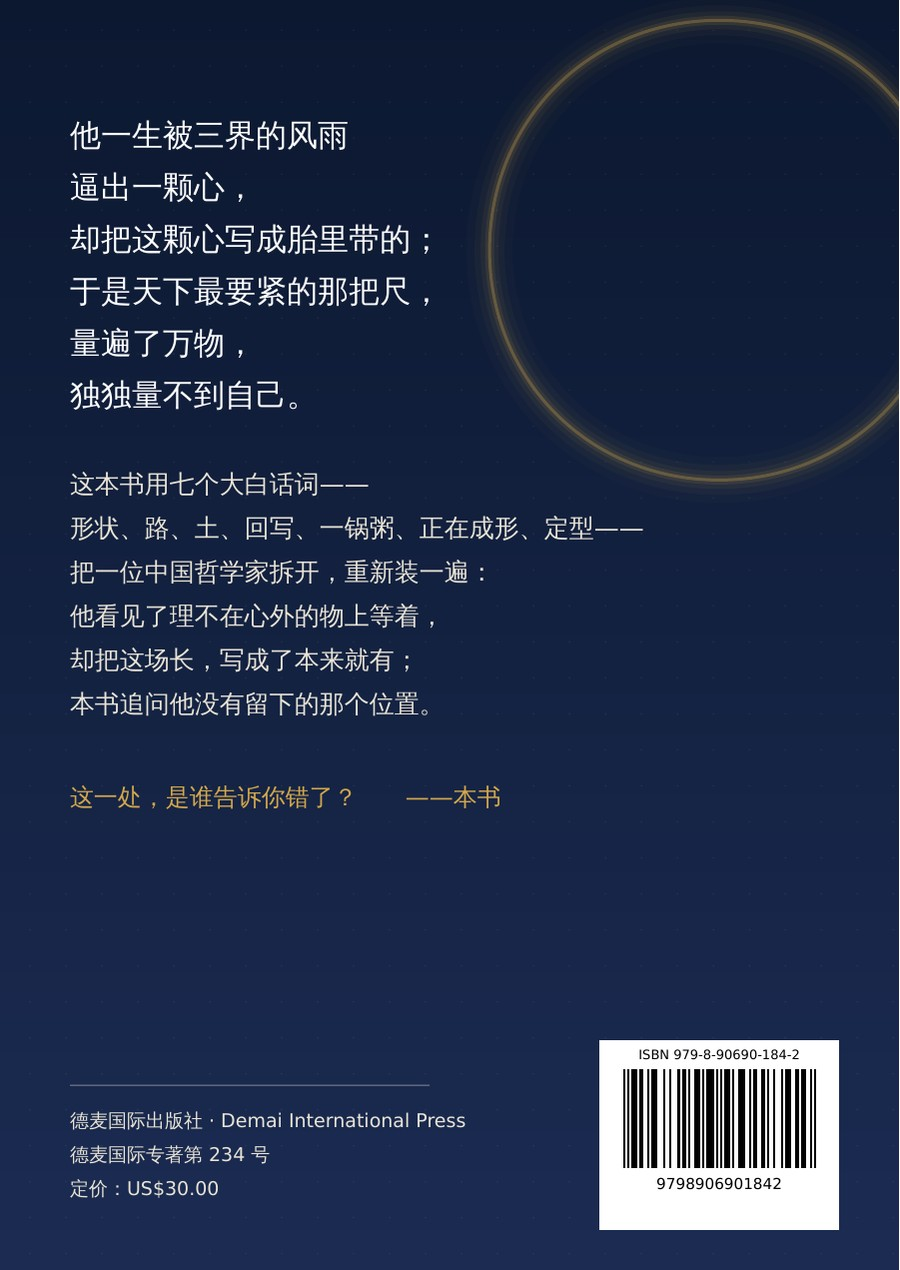
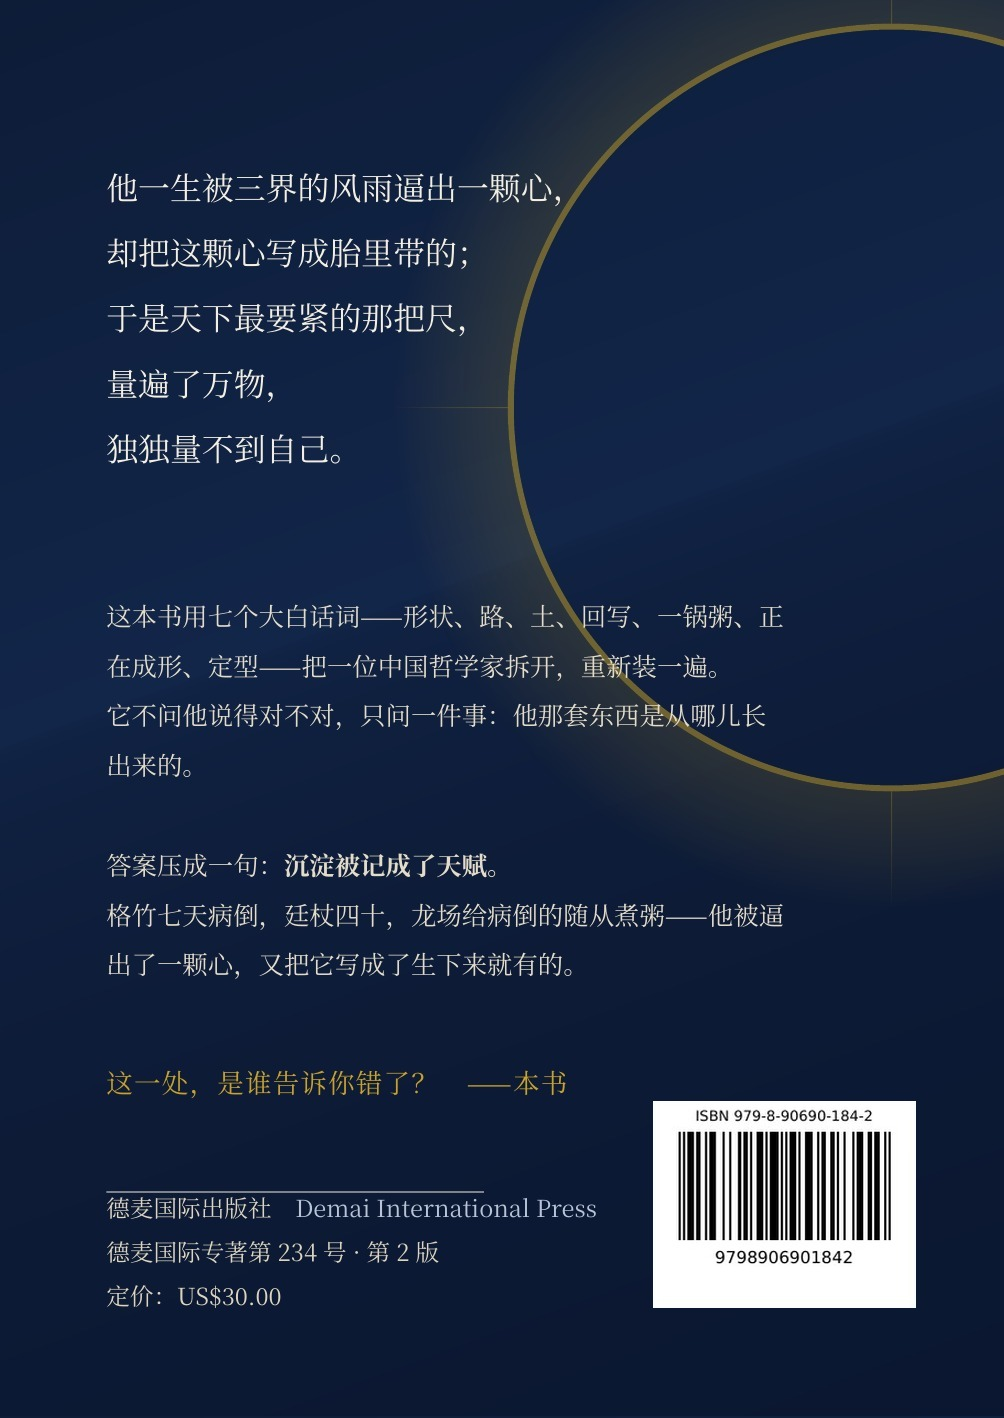
Replace no.234 cover and backcover with 2nd-edition artwork: dusted-gem motif, corrected subtitle, motif line updated

diff --git a/public/books/m/234/index.html b/public/books/m/234/index.html
@@ -57,7 +57,7 @@ footer a{color:#D4B25E}
 <header class="hero">
   <i class="st" style="left:4.9%;top:85.2%;width:1.9px;height:1.7px;--o:0.88;--d:3.0s;--dl:1.1s"></i><i class="st" style="left:50.1%;top:8.1%;width:1.2px;height:1.8px;--o:0.84;--d:3.6s;--dl:0.0s"></i><i class="st" style="left:7.1%;top:43.7%;width:2.1px;height:1.1px;--o:0.42;--d:3.1s;--dl:3.3s"></i><i class="st" style="left:77.7%;top:19.8%;width:1.5px;height:2.0px;--o:0.57;--d:3.9s;--dl:3.6s"></i><i class="st" style="left:84.2%;top:12.1%;width:1.3px;height:2.0px;--o:0.39;--d:4.6s;--dl:2.5s"></i><i class="st" style="left:84.6%;top:78.4%;width:1.6px;height:1.9px;--o:0.35;--d:2.9s;--dl:2.0s"></i><i class="st" style="left:59.9%;top:71.4%;width:2.1px;height:1.7px;--o:0.45;--d:4.4s;--dl:3.8s"></i><i class="st" style="left:80.8%;top:53.0%;width:1.5px;height:1.2px;--o:0.65;--d:3.5s;--dl:2.8s"></i><i class="st" style="left:58.0%;top:26.6%;width:2.2px;height:1.7px;--o:0.49;--d:2.6s;--dl:4.0s"></i><i class="st" style="left:52.2%;top:11.1%;width:1.6px;height:1.5px;--o:0.46;--d:4.0s;--dl:3.5s"></i><i class="st" style="left:66.4%;top:50.6%;width:1.1px;height:2.2px;--o:0.78;--d:3.3s;--dl:0.0s"></i><i class="st" style="left:58.4%;top:68.2%;width:1.8px;height:1.6px;--o:0.65;--d:3.3s;--dl:2.6s"></i><i class="st" style="left:79.6%;top:23.7%;width:1.1px;height:1.7px;--o:0.63;--d:2.4s;--dl:1.8s"></i><i class="st" style="left:78.2%;top:47.0%;width:1.4px;height:1.8px;--o:0.78;--d:2.8s;--dl:1.9s"></i><i class="st" style="left:81.3%;top:61.3%;width:1.5px;height:1.8px;--o:0.56;--d:3.8s;--dl:1.5s"></i><i class="st" style="left:12.6%;top:18.9%;width:1.2px;height:2.1px;--o:0.52;--d:2.8s;--dl:3.0s"></i><i class="st" style="left:69.6%;top:30.6%;width:1.5px;height:1.5px;--o:0.25;--d:2.7s;--dl:3.7s"></i><i class="st" style="left:16.6%;top:4.5%;width:2.1px;height:1.9px;--o:0.78;--d:3.3s;--dl:2.5s"></i><i class="st" style="left:40.9%;top:82.9%;width:1.9px;height:1.6px;--o:0.29;--d:4.3s;--dl:0.3s"></i><i class="st" style="left:82.1%;top:42.0%;width:1.8px;height:1.7px;--o:0.37;--d:3.3s;--dl:3.6s"></i><i class="st" style="left:27.5%;top:87.5%;width:1.1px;height:1.6px;--o:0.40;--d:4.8s;--dl:2.0s"></i><i class="st" style="left:40.4%;top:95.4%;width:1.4px;height:1.6px;--o:0.38;--d:3.3s;--dl:2.5s"></i><i class="st" style="left:64.9%;top:32.4%;width:1.7px;height:1.2px;--o:0.64;--d:3.1s;--dl:3.0s"></i><i class="st" style="left:32.8%;top:19.8%;width:1.6px;height:1.3px;--o:0.84;--d:4.3s;--dl:2.5s"></i><i class="st" style="left:92.1%;top:92.6%;width:1.5px;height:1.9px;--o:0.57;--d:4.9s;--dl:3.5s"></i><i class="st" style="left:15.6%;top:79.5%;width:1.8px;height:1.6px;--o:0.54;--d:3.2s;--dl:3.5s"></i><i class="st" style="left:96.5%;top:88.5%;width:1.0px;height:1.9px;--o:0.46;--d:4.4s;--dl:2.4s"></i><i class="st" style="left:23.5%;top:43.0%;width:2.1px;height:1.4px;--o:0.40;--d:3.8s;--dl:1.5s"></i><i class="st" style="left:74.2%;top:56.8%;width:2.1px;height:2.1px;--o:0.80;--d:4.5s;--dl:3.5s"></i><i class="st" style="left:22.8%;top:54.9%;width:1.6px;height:1.6px;--o:0.86;--d:5.0s;--dl:0.9s"></i><i class="st" style="left:57.7%;top:84.5%;width:1.1px;height:2.0px;--o:0.71;--d:5.3s;--dl:1.6s"></i><i class="st" style="left:65.5%;top:95.6%;width:1.2px;height:1.4px;--o:0.90;--d:3.1s;--dl:3.7s"></i><i class="st" style="left:58.1%;top:64.1%;width:1.8px;height:1.4px;--o:0.26;--d:3.3s;--dl:4.0s"></i><i class="st" style="left:43.9%;top:43.9%;width:1.9px;height:2.1px;--o:0.88;--d:5.2s;--dl:1.4s"></i><i class="st" style="left:79.3%;top:87.8%;width:1.9px;height:1.9px;--o:0.38;--d:2.5s;--dl:2.6s"></i><i class="st" style="left:21.6%;top:80.9%;width:1.2px;height:1.8px;--o:0.60;--d:5.4s;--dl:1.2s"></i><i class="st" style="left:57.2%;top:27.5%;width:1.1px;height:1.8px;--o:0.69;--d:3.5s;--dl:3.9s"></i><i class="st" style="left:25.3%;top:7.8%;width:1.3px;height:1.1px;--o:0.43;--d:4.8s;--dl:0.7s"></i><i class="st" style="left:22.0%;top:41.1%;width:1.3px;height:1.0px;--o:0.54;--d:4.6s;--dl:2.2s"></i><i class="st" style="left:75.9%;top:93.8%;width:1.5px;height:1.2px;--o:0.29;--d:4.7s;--dl:0.6s"></i><i class="st" style="left:58.5%;top:79.0%;width:2.1px;height:1.1px;--o:0.76;--d:4.3s;--dl:3.7s"></i><i class="st" style="left:81.1%;top:4.1%;width:1.6px;height:1.0px;--o:0.50;--d:4.5s;--dl:1.6s"></i><i class="st" style="left:74.0%;top:39.0%;width:1.2px;height:1.3px;--o:0.68;--d:5.0s;--dl:1.6s"></i><i class="st" style="left:77.6%;top:50.5%;width:2.0px;height:1.5px;--o:0.36;--d:3.6s;--dl:4.0s"></i><i class="st" style="left:8.3%;top:69.3%;width:1.6px;height:1.5px;--o:0.81;--d:4.9s;--dl:1.8s"></i><i class="st" style="left:8.9%;top:59.6%;width:1.7px;height:1.8px;--o:0.46;--d:4.3s;--dl:0.8s"></i>
   <div class="hero-inner">
-    <div class="hero-cover"><img src="/books/m/234/cover.jpg?v=20260928a" alt="普通人都能读懂的王阳明 封面"></div>
+    <div class="hero-cover"><img src="/books/m/234/cover.jpg?v=20260928b" alt="普通人都能读懂的王阳明 封面"></div>
     <div class="hero-txt">
       <div class="hero-domain">艺术 · 德麦国际专著第 234 号</div>
       <h1 class="hero-title">普通人都能读懂的王阳明</h1>
@@ -126,7 +126,7 @@ footer a{color:#D4B25E}
       <div class="row"><span class="k">开放</span><span class="v">全书公开免费阅读</span></div>
       <div class="row"><span class="k">AI 协作声明</span><span class="v">复合主体：王德生立题、口述承重命题与裁定；Claude 执笔与统稿。全书承重命题来自 2026 年 9 月 28 日的八句口述，逐句登记于附录八，一字不改。</span></div>
       <div class="row"><span class="k">引文核验</span><span class="v">书中所引王阳明原话一律作转述，按三级标注：〔待核〕148 处、〔据二手〕61 处、「待验」为本书自己的读法。<b>本版一条也未对原刊逐字核过</b>，详见附录四与附录七第一条。</span></div>
-      <div class="row"><span class="k">封面</span><span class="v">现用封面为第 1 版封面，副题仍作「一张挂在门口的牌」；第 2 版封面待换。</span></div>
+      <div class="row"><span class="k">封面</span><span class="v">第 2 版封面与封底（2026 年 9 月 28 日），母题图为一块蒙了灰的珠宝，擦出两道亮痕。</span></div>
     </div>
 
     <div class="sec-label">这 一 版 改 了 什 么</div>

diff --git a/public/books/m/234/text/index.html b/public/books/m/234/text/index.html
@@ -58,7 +58,7 @@ blockquote{background:var(--soft);padding:.5rem .9rem;border-radius:0 6px 6px 0}
 <body><div id="prog"></div>
 <div class="bar"><a href="/books/m/234/">← 书籍详情</a><a href="/books/m/234/read.html">在线翻页</a><a href="/books/m/234/reader.pdf" target="_blank" rel="noopener">PDF</a><span class="sp"></span><button id="fs">字号</button><button id="th">夜间</button></div>
 <div class="wrap">
-<div class="hero"><img src="/books/m/234/cover.jpg?v=20260928a" alt="封面"><h1>普通人都能读懂的王阳明</h1><p>一个人、一块蒙了灰的珠宝，与 SDE 的解构</p><p style="color:var(--dim);margin-top:.5rem">王德生 著 · 德麦国际专著第 234 号 · ISBN 979-8-90690-184-2 · 约 22.9 万字 · 第 2 版</p></div>
+<div class="hero"><img src="/books/m/234/cover.jpg?v=20260928b" alt="封面"><h1>普通人都能读懂的王阳明</h1><p>一个人、一块蒙了灰的珠宝，与 SDE 的解构</p><p style="color:var(--dim);margin-top:.5rem">王德生 著 · 德麦国际专著第 234 号 · ISBN 979-8-90690-184-2 · 约 22.9 万字 · 第 2 版</p></div>
 <div class="chapter"><div class="chap-label"></div><h2 class="chap-title">前 言</h2><div class="rule"></div></div>
 <div class="chapter" id="c1"><h2 class="chap-title">这一次，把那块珠宝拿出来看</h2><div class="rule"></div></div>
 <h2 class="sec"><span class="dia">◆</span>◆ 一、为什么是他</h2>
